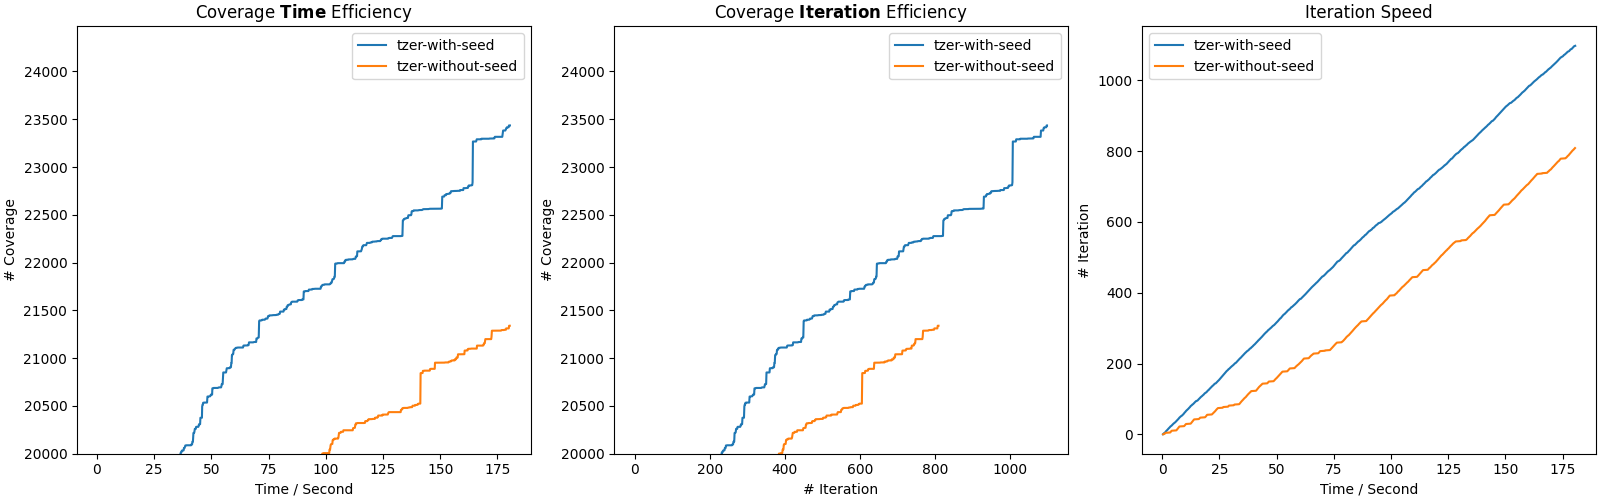
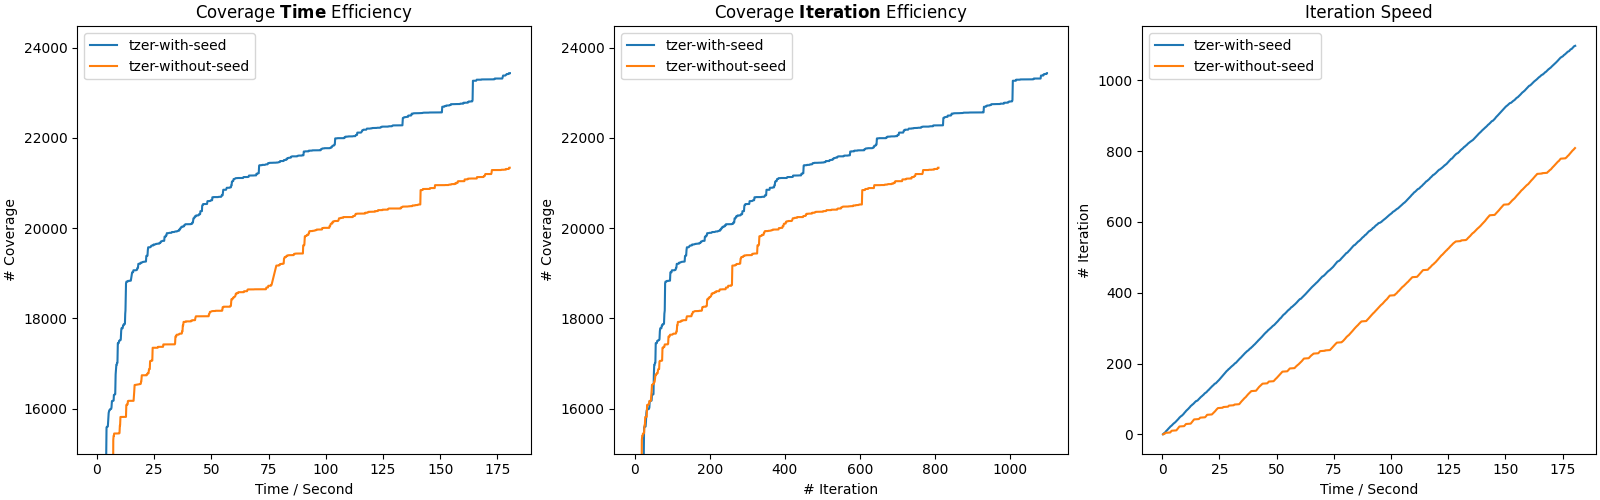
Update coverage scale

diff --git a/docs/source/markdown/artifact.md b/docs/source/markdown/artifact.md
@@ -438,7 +438,7 @@ To visualize the results:
 ```shell
 # Inside the container
 cd /tzer
-python3 src/plot_cov.py -f tzer-with-seed tzer-without-seed -cl 20000
+python3 src/plot_cov.py -f tzer-with-seed tzer-without-seed -cl 15000
 ```
 
 The figure is now available at `/tzer/cov.png` (inside the container). 
